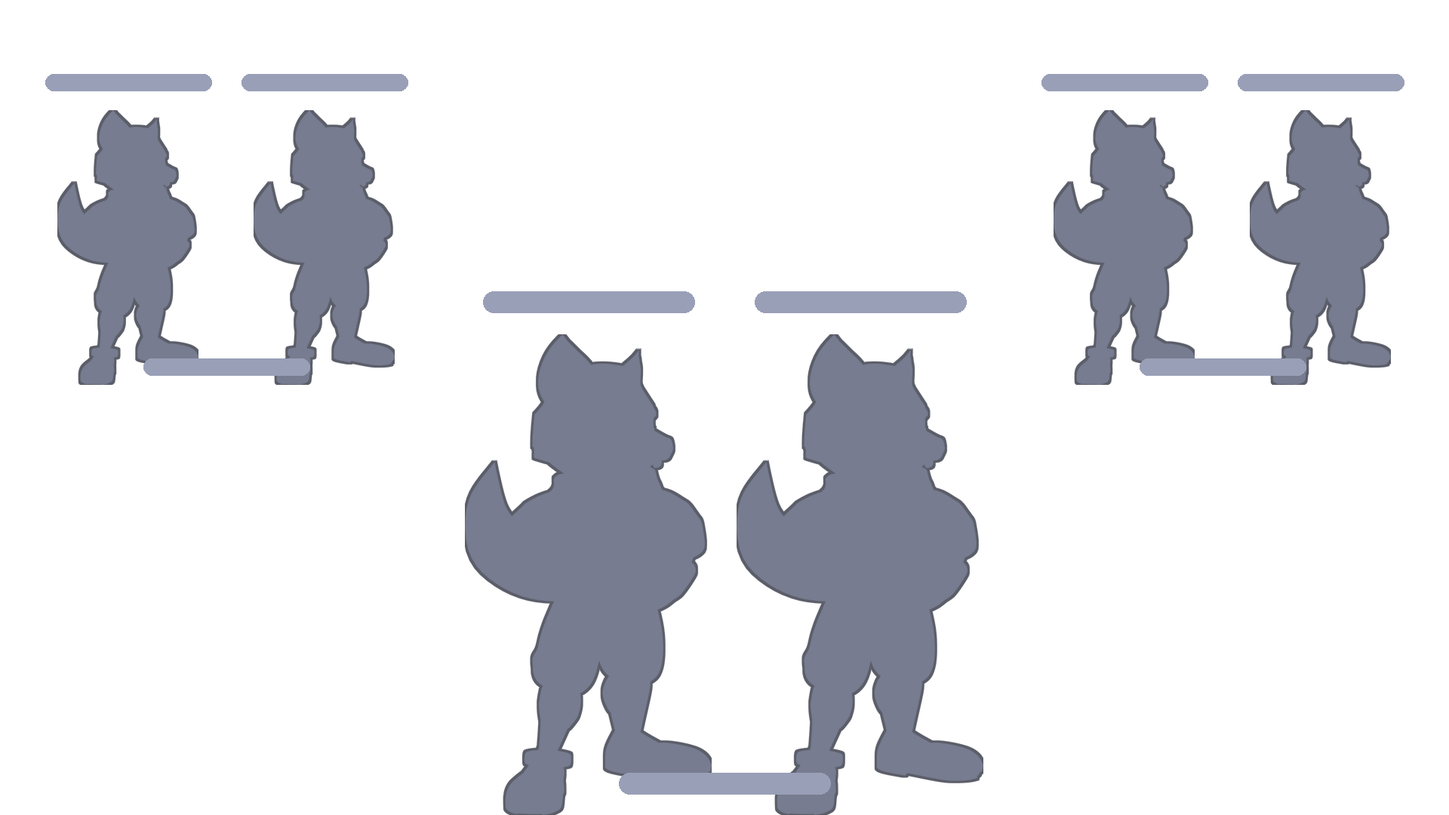
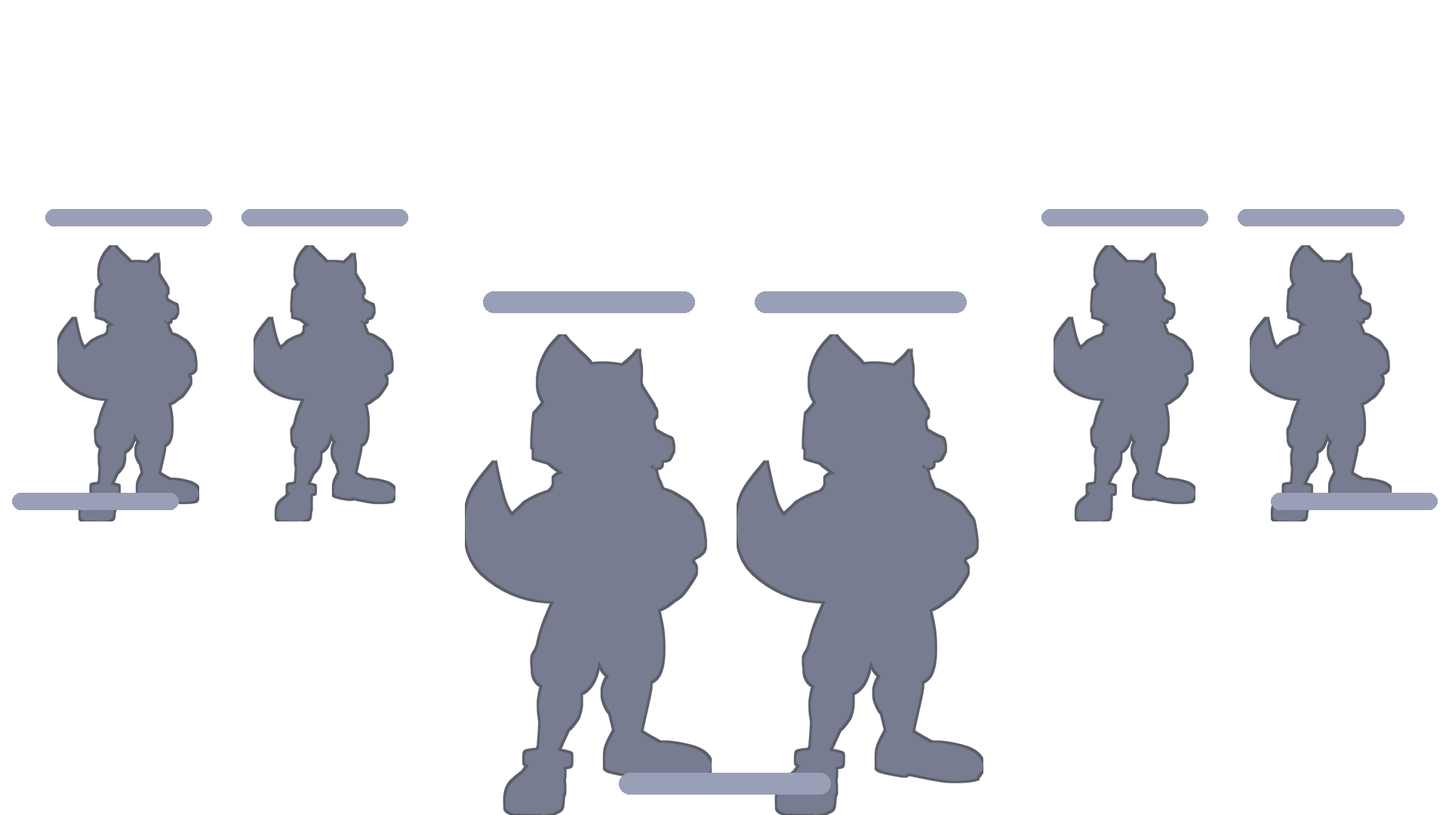
trying to fix the flying v sizing of chars

Changed region(s): [[0.7188, 0.0917, 1.0, 0.6417], [0.0, 0.0917, 0.2812, 0.6417]]

diff --git a/test/flying_v_test.py b/test/flying_v_test.py
@@ -185,11 +185,19 @@ class FlyingVPreferenceTests(unittest.TestCase):
         preferences = ModePreferenceRepository().load(DOUBLES)
         frames = _frames(preferences)
         badges = {slot_from_id(tag.slot_id): tag for tag in preferences.placement_tags}
-        for slot in (2, 3):
+        for slot, side, edge in ((2, "l", 16), (3, "r", 1904)):
             name = next(item for item in preferences.text_slots if item.slot_id == f"name_{slot}")
             feet = frames[f"entrant_{slot}_member_1"].destination.bottom
-            self.assertEqual((name.pillow_anchor, name.anchor.y), ("ms", feet - 2))
+            # Back team names hug their outer edge and wrap upward from the feet.
+            self.assertEqual((name.pillow_anchor, name.anchor.x, name.anchor.y, name.wrap), (f"{side}d", edge, feet + 6, True))
             self.assertEqual(badges[slot].anchor.y - badges[slot].max_size.height // 2, feet + 10)
+            badge_edge = badges[slot].anchor.x + (-1 if side == "l" else 1) * (badges[slot].max_size.width // 2)
+            self.assertLessEqual(abs(badge_edge - edge), 1)
+            seed = next(item for item in preferences.text_slots if item.slot_id == f"seed_{slot}")
+            self.assertEqual(seed.pillow_anchor, f"{side}m")
+            # Names that run toward the center pass behind the winning team.
+            self.assertLess(name.z_index, min(item.z_index for item in preferences.character_slots if item.entrant_slot == 1))
+            self.assertGreater(name.z_index, max(item.z_index for item in preferences.character_slots if item.entrant_slot == slot))
         crest = badges[1]
         self.assertTrue(crest.slot_id.endswith(BETWEEN_NAMES_SUFFIX))
         self.assertEqual(crest.anchor.x, 960)
@@ -283,6 +291,73 @@ class FlyingVPlacementTests(unittest.TestCase):
         roomy = PixelRect(0, 0, 1000, 1000)
         ratio = place_lineup([pichu], .3, roomy).bounds.height / place_lineup([fox], .3, roomy).bounds.height
         self.assertAlmostEqual(ratio, 434.6 / 796, delta=.02)
+
+    def test_every_render_fits_the_doubles_back_tiers_at_full_tier_size(self):
+        preferences = ModePreferenceRepository().load(DOUBLES)
+        frames = _frames(preferences)
+        # Second and third place mirror each other at one shared tier size.
+        back = {(item.entrant_slot, item.member_slot): item for item in preferences.character_slots if item.entrant_slot != 1}
+        for member, mirror in ((1, 2), (2, 1)):
+            second, third = back[(2, member)], back[(3, mirror)]
+            self.assertEqual(second.scale, third.scale)
+            self.assertEqual(second.anchor.x, preferences.canvas_size.width - third.anchor.x)
+            second_frame, third_frame = frames[second.slot_id].destination, frames[third.slot_id].destination
+            self.assertEqual((second_frame.width, second_frame.height), (third_frame.width, third_frame.height))
+            self.assertEqual(second_frame.left, preferences.canvas_size.width - third_frame.right)
+        largest = [Character("Bowser", color="default", pose="c"), Character("Ice Climbers", color="default", pose="a"),
+                   Character("Marth", color="default", pose="e")]
+        for placement in preferences.character_slots:
+            if placement.entrant_slot == 1:
+                continue
+            frame = frames[placement.slot_id].destination
+            for character in largest:
+                with self.subTest(slot=placement.slot_id, character=character.melee_fighter_name):
+                    placed = place_lineup([character], placement.scale, frame, anchor_x=placement.anchor.x)
+                    roomy = place_lineup([character], placement.scale, PixelRect(0, 0, 4000, 4000))
+                    self.assertEqual(placed.image.size, roomy.image.size)
+                    self.assertGreaterEqual(placed.bounds.left, max(0, frame.left))
+                    self.assertLessEqual(placed.bounds.right, min(preferences.canvas_size.width, frame.right))
+
+    def test_figures_center_on_their_anchor_and_slide_only_to_stay_in_frame(self):
+        fox, bowser = Character("Fox", color="default", pose="a"), Character("Bowser", color="default", pose="c")
+        frame = PixelRect(0, 0, 560, 600)
+        placed = place_lineup([fox], .46, frame, anchor_x=170)
+        self.assertLessEqual(abs((placed.bounds.left + placed.bounds.right) / 2 - 170), 1)
+        wide = place_lineup([bowser], .46, frame, anchor_x=170)
+        self.assertEqual(wide.bounds.left, 0)
+
+    def test_back_team_names_wrap_early_and_pass_behind_the_winning_team(self):
+        # Fixed poses keep the measured figures identical to the rendered ones.
+        member = Entrant(tag="Player", characters=[Character("Fox", color="default", pose="a")])
+        teams = [DoublesTeam(seed=slot, placement=slot, entrant_1=member, entrant_2=member, team_name=name)
+                 for slot, name in enumerate(("Leaders", "TheseTeamNamesHaveNoSpacesAndRunOnForever",
+                                              "A Very Long Team Name That Keeps Going"), 1)]
+        request, preferences = _request(DOUBLES, teams, text_settings=TextSettings(include_seeding=False))
+        names = {item.entrant_slot: item for item in preferences.text_slots if item.field == "entrant.team_name"}
+        renderer = FlyingVContentRenderer(font=PodiumFont.UBUNTU)
+        image = renderer.draw(Image.new("RGBA", (1920, 1080), "#00000000"), request, preferences)
+        without_leader = renderer.draw(Image.new("RGBA", (1920, 1080), "#00000000"),
+                                       replace(request, entrants=[replace(teams[0], omit_entrant=True), *teams[1:]]),
+                                       visible_preferences(preferences, [replace(teams[0], omit_entrant=True), *teams[1:]]))
+        # The unbroken name runs on into the first-place figures, which cover it
+        # wherever they are opaque.
+        row = names[2].anchor.y - 20
+        topmost = {}
+        leaders = [figure for figure in place_figures(request, preferences).values() if figure.entrant_slot == 1]
+        for figure in sorted(leaders, key=lambda item: (item.z_index, item.slot_id)):
+            bounds = figure.lineup.bounds
+            if bounds.top <= row < bounds.bottom:
+                for x in range(max(0, bounds.left), min(1920, bounds.right)):
+                    pixel = figure.lineup.image.getpixel((x - bounds.left, row - bounds.top))
+                    if pixel[3] == 255:
+                        topmost[x] = pixel
+        covered = [x for x in topmost if without_leader.getpixel((x, row))[3]]
+        self.assertGreater(len(covered), 20)
+        for x in covered:
+            self.assertEqual(image.getpixel((x, row)), topmost[x])
+        # The spaced name breaks into several right-aligned lines stacked upward.
+        third = without_leader.crop((1300, 300, 1920, names[3].anchor.y + 2))
+        self.assertGreater(names[3].anchor.y - (third.getbbox()[1] + 300), 44 * 3)
 
     def test_second_place_label_stays_put_while_its_figure_grows(self):
         pichu, bowser = Character("Pichu", color="default", pose="a"), Character("Bowser", color="default", pose="c")

diff --git a/generate_flying_v_preferences.py b/generate_flying_v_preferences.py
@@ -3,6 +3,7 @@
 from __future__ import annotations
 
 import json
+from dataclasses import replace
 from pathlib import Path
 
 from background_builder import PixelRect, PixelSize
@@ -92,17 +93,6 @@ def _number_above_name(slot: int, center_x: int, line: int, badge_height: int, n
     ]
 
 
-def _name_above_number(slot: int, center_x: int, line: int, badge_height: int, name_size: int, name_width: int,
-                       name_field: str) -> tuple[PlacementTagPlacement, list[TextPlacement]]:
-    """Rest the name over the feet with the placement art just below the line."""
-    badge_y = line + 10 + badge_height // 2
-    return _badge(slot, PixelPoint(center_x, badge_y), badge_height), [
-        _text(slot, f"name_{slot}", name_field, PixelPoint(center_x, line - 2), name_width, "ms", name_size),
-        _text(slot, f"seed_{slot}", "entrant.seed", PixelPoint(center_x + _badge_width(slot, badge_height) // 2 + 8, badge_y),
-              140, "lm", _seed_size(name_size)),
-    ]
-
-
 # slot: frame, hanging, tier scale, z, badge height, name size, name width, label line.
 # Labels rest on the frame bottom (the feet) unless a fixed label line is given:
 # second place keeps one label position while its hanging figure grows past it,
@@ -120,16 +110,23 @@ SINGLES_TIERS = {
 # First place's name sits on the canvas bottom with its crest right above it.
 SINGLES_LEADER_NAME_BASELINE = 1900
 
-# team slot: two member frames, tier scale, z, badge height, name size, name width.
-# Upper frames start low enough that a sponsored name above the tallest head
-# stays out of the watermark's top row.
+# team slot: (member frame, figure center x) pairs, tier scale, z, badge height,
+# name size, name width. Upper frames start low enough that a sponsored name
+# above the tallest head stays out of the watermark's top row. The 2nd and 3rd
+# frames hold the largest render (Bowser's victory pose) at their tier scale,
+# so no member shrinks; figures keep their spacing by centering on their own x
+# and slide inward only when a wide pose would leave the frame.
 DOUBLES_TIERS = {
-    1: ((PixelRect(520, 320, 1040, 1080), PixelRect(880, 320, 1400, 1080)), .8, 20, 175, 56, 900),
-    2: ((PixelRect(20, 146, 320, 510), PixelRect(280, 146, 580, 510)), .46, 10, 50, 44, 540),
-    3: ((PixelRect(1340, 146, 1640, 510), PixelRect(1600, 146, 1900, 510)), .46, 10, 50, 44, 540),
+    1: (((PixelRect(520, 320, 1040, 1080), 780), (PixelRect(880, 320, 1400, 1080), 1140)), .8, 20, 175, 56, 900),
+    2: (((PixelRect(0, 146, 560, 691), 170), (PixelRect(100, 146, 660, 691), 430)), .46, 10, 50, 44, 900),
+    3: (((PixelRect(1260, 146, 1820, 691), 1490), (PixelRect(1360, 146, 1920, 691), 1750)), .46, 10, 50, 44, 900),
 }
 # The winning team's name sits on the canvas bottom.
 DOUBLES_LEADER_NAME_BASELINE = 1066
+# Back team names hug their outer canvas edge and sit behind the winning team,
+# so a name running toward the center disappears under its figures.
+DOUBLES_SIDE_MARGIN = 16
+DOUBLES_SIDE_NAME_Z = DOUBLES_TIERS[1][2] - 5
 
 
 def flying_v_singles_preferences() -> ModePreferences:
@@ -160,18 +157,39 @@ def flying_v_singles_preferences() -> ModePreferences:
     )
 
 
+def _side_team_label(slot: int, left_side: bool, line: int, badge_height: int, name_size: int,
+                     name_width: int) -> tuple[PlacementTagPlacement, list[TextPlacement]]:
+    """Align a back team's name and placement art to its outer edge.
+
+    The name wraps early, stacking extra lines upward from the feet so the
+    placement art below never moves; the seed sits on the art's inner side.
+    """
+    side = "l" if left_side else "r"
+    direction = 1 if left_side else -1
+    edge = DOUBLES_SIDE_MARGIN if left_side else DOUBLES_CANVAS.width - DOUBLES_SIDE_MARGIN
+    badge_width = _badge_width(slot, badge_height)
+    badge_x = edge + direction * (badge_width // 2)
+    badge_y = line + 10 + badge_height // 2
+    name = _text(slot, f"name_{slot}", "entrant.team_name", PixelPoint(edge, line + 6), name_width, f"{side}d", name_size)
+    return _badge(slot, PixelPoint(badge_x, badge_y), badge_height), [
+        replace(name, wrap=True, z_index=DOUBLES_SIDE_NAME_Z),
+        _text(slot, f"seed_{slot}", "entrant.seed", PixelPoint(badge_x + direction * (badge_width // 2 + 8), badge_y),
+              140, f"{side}m", _seed_size(name_size)),
+    ]
+
+
 def flying_v_doubles_preferences() -> ModePreferences:
     frames, characters, tags, text = _header_regions(DOUBLES_HEADER_BOXES), [], [], []
-    for slot, (member_frames, scale, z_index, badge, size, width) in DOUBLES_TIERS.items():
-        for member, frame in enumerate(member_frames, 1):
+    for slot, (members, scale, z_index, badge, size, width) in DOUBLES_TIERS.items():
+        member_frames = [frame for frame, _x in members]
+        for member, (frame, figure_x) in enumerate(members, 1):
             slot_id = f"entrant_{slot}_member_{member}"
-            center_x = (frame.left + frame.right) // 2
             frames.append(FormattingAssetPlacement(slot_id, STANDING_FRAME, frame, z_index))
-            characters.append(CharacterPlacement(slot_id, slot, PixelPoint(center_x, frame.bottom),
+            characters.append(CharacterPlacement(slot_id, slot, PixelPoint(figure_x, frame.bottom),
                                                  member_slot=member, scale=scale, z_index=z_index))
             # The renderer lowers this baseline to just above the member's visible head.
             text.append(_text(slot, f"member_{slot}_{member}", "member.tag",
-                              PixelPoint(center_x, frame.top - NAME_ABOVE_HEAD_OFFSET), frame.width, "ms", size, member))
+                              PixelPoint(figure_x, frame.top - NAME_ABOVE_HEAD_OFFSET), frame.width, "ms", size, member))
         center_x = (member_frames[0].left + member_frames[1].right) // 2
         if slot == 1:
             # The crest sits centered between the members' names, behind the
@@ -186,8 +204,8 @@ def flying_v_doubles_preferences() -> ModePreferences:
                       _seed_size(size)),
             ))
             continue
-        badge_tag, label_text = _name_above_number(slot, center_x, max(frame.bottom for frame in member_frames),
-                                                   badge, size, width, "entrant.team_name")
+        badge_tag, label_text = _side_team_label(slot, center_x < DOUBLES_CANVAS.width // 2,
+                                                 max(frame.bottom for frame in member_frames), badge, size, width)
         tags.append(badge_tag)
         text.extend(label_text)
     return ModePreferences(

diff --git a/flying_v_content_renderer.py b/flying_v_content_renderer.py
@@ -14,12 +14,14 @@ from DrawPodium import (
     PodiumFont,
     _character_tag_bounds,
     _draw_character_tag,
+    _draw_text,
     _resolve_doubles_tag_collisions,
     _temporary_font_settings,
+    _wrap_text,
 )
 from entrant_visibility import slot_from_id
 from flying_v_lineup import FRAME_ASSETS, HANGING_FRAME, PlacedLineup, place_lineup
-from font_size_adjustments import adjusted_size
+from font_size_adjustments import adjusted_size, result_text_adjustment
 from formatting_assets import LocalPlacementTagAssets, PlacementTagAssetProvider, _composite_clipped
 from geometric_content_renderer import (
     LogoInput,
@@ -30,6 +32,7 @@ from geometric_content_renderer import (
     _explicit_entrant_color,
     _member_for_placement,
     _open_logo,
+    _text_value,
     _watermark_color,
 )
 from legacy_podium_content_renderer import LegacyPodiumContentRenderer
@@ -57,6 +60,9 @@ CREST_NAME_GUTTER = 12
 # stays legible where it overlaps a figure.
 FIRST_PLACE_ART = "01st.png"
 PLACEMENT_OUTLINE_RATIO = .07
+# Wrapped result names break at this width even when their serialized width
+# lets a long unbroken name run on (behind any nearer figures) before shrinking.
+NAME_WRAP_WIDTH = 320
 
 
 @dataclass(frozen=True, slots=True)
@@ -88,7 +94,8 @@ def place_figures(request: CreationRequest, preferences: ModePreferences) -> dic
         figures[placement.slot_id] = PlacedFigure(
             placement.slot_id, placement.entrant_slot, placement.z_index, hanging,
             place_lineup(member.characters, placement.scale, frame.destination, hanging=hanging,
-                         team_color=result.team_color if isinstance(result, DoublesTeam) else None),
+                         team_color=result.team_color if isinstance(result, DoublesTeam) else None,
+                         anchor_x=placement.anchor.x),
         )
     return figures
 
@@ -101,6 +108,8 @@ def text_vertical_extent(item: TextPlacement) -> tuple[int, int]:
         return item.anchor.y - size, item.anchor.y + size // 4
     if vertical == "m":
         return item.anchor.y - size // 2, item.anchor.y + size // 2
+    if vertical == "d":
+        return item.anchor.y - round(size * 1.25), item.anchor.y
     return item.anchor.y, item.anchor.y + round(size * 1.25)
 
 
@@ -216,6 +225,37 @@ def _entrant_text_style(request: CreationRequest, placement: TextPlacement) -> t
     return chosen, settings.entrant_text_metallic[index]
 
 
+def _draw_wrapped_names(canvas: Image.Image, request: CreationRequest, placements: list[TextPlacement], font: PodiumFont) -> None:
+    """Break names early at the wrap width, shrinking only past their wider run-on width.
+
+    Extra lines stack upward from a bottom anchor and follow its left or right
+    alignment, so a long name grows over the figures rather than into the art.
+    """
+    draw = ImageDraw.Draw(canvas)
+    for placement in placements:
+        result = request.entrants[placement.entrant_slot - 1]
+        value = _text_value(placement, result, request.text_settings.include_seeding)
+        if value is None:
+            continue
+        size = adjusted_size(placement.preferred_size or 42,
+                             result_text_adjustment(request.text_settings, result, placement.field, placement.member_slot))
+        color, metallic = _entrant_text_style(request, placement)
+        _draw_text(draw, (placement.anchor.x, placement.anchor.y), _wrap_text(value, NAME_WRAP_WIDTH, size, font),
+                   anchor=placement.pillow_anchor, max_width=placement.max_width, preferred_size=size, font=font,
+                   fill=color, metallic=metallic, align={"l": "left", "r": "right"}.get(placement.pillow_anchor[0], "center"))
+
+
+def _draw_labels(canvas: Image.Image, request: CreationRequest, preferences: ModePreferences,
+                 placements: list[TextPlacement], font: PodiumFont) -> None:
+    """Draw result labels (never member names) with the shared black outline."""
+    if not placements:
+        return
+    layer = Image.new("RGBA", canvas.size, "#00000000")
+    _draw_result_text(layer, request, preferences, font, [item for item in placements if not item.wrap])
+    _draw_wrapped_names(layer, request, [item for item in placements if item.wrap], font)
+    _composite_outlined_text(canvas, layer)
+
+
 def _clear_of(draw: ImageDraw.ImageDraw, tag: CharacterTag, box: tuple[int, int, int, int] | None, font: PodiumFont) -> CharacterTag:
     """Move a member name outward until it no longer covers the team crest."""
     if box is None:
@@ -265,16 +305,19 @@ class FlyingVContentRenderer:
             figures = place_figures(request, preferences)
             labelled = labelled_preferences(preferences, figures)
             # Smaller figures stand farther back; the leader is drawn last.
-            # Placement art layered below a figure is drawn just before it.
+            # Placement art and labels layered below a figure are drawn just before it.
             pending = sorted(labelled.placement_tags, key=lambda item: (item.z_index, item.slot_id))
+            labels = [item for item in labelled.text_slots if item.field != "member.tag"]
             for figure in sorted(figures.values(), key=lambda item: (item.z_index, item.slot_id)):
                 behind = [tag for tag in pending if tag.z_index < figure.z_index]
                 pending = [tag for tag in pending if tag.z_index >= figure.z_index]
                 draw_outlined_placement_tags(result, replace(labelled, placement_tags=tuple(behind)))
+                _draw_labels(result, request, labelled, [item for item in labels if item.z_index < figure.z_index], self.font)
+                labels = [item for item in labels if item.z_index >= figure.z_index]
                 _composite_clipped(result, figure.lineup.image, figure.lineup.bounds.as_tuple())
             text_layer = Image.new("RGBA", result.size, "#00000000")
-            _draw_result_text(text_layer, request, labelled, self.font,
-                              [item for item in labelled.text_slots if item.field != "member.tag"])
+            _draw_result_text(text_layer, request, labelled, self.font, [item for item in labels if not item.wrap])
+            _draw_wrapped_names(text_layer, request, [item for item in labels if item.wrap], self.font)
             _draw_member_names(text_layer, request, [item for item in labelled.text_slots if item.field == "member.tag"],
                                self.font, crest_clearances(labelled, request.text_settings.include_seeding))
             _composite_outlined_text(result, text_layer)

diff --git a/flying_v_lineup.py b/flying_v_lineup.py
@@ -93,13 +93,16 @@ def place_lineup(
     *,
     hanging: bool = False,
     team_color: str | None = None,
+    anchor_x: int | None = None,
 ) -> PlacedLineup:
     """Scale a lineup to its tier, shrinking only a character too large for the frame.
 
     The frame limits each character rather than the staggered lineup, so
     entrants with several characters match single-character entrants in the
-    same tier. Standing lineups rest on the frame's bottom center; hanging
-    lineups start at its top center so they never rise into reserved space.
+    same tier. Standing lineups rest on the frame's bottom; hanging lineups
+    start at its top so they never rise into reserved space. The primary
+    character centers on ``anchor_x`` (the frame center by default), sliding
+    only as far as needed to keep a wide lineup inside the frame.
     """
 
     if scale <= 0:
@@ -111,10 +114,11 @@ def place_lineup(
         widest = max(source.size_at(scale)[0] for source in sources)
         tallest = max(source.size_at(scale)[1] for source in sources)
         scale *= min(1.0, frame.width / widest, frame.height / tallest)
-    lineup, anchor_x = _compose([source.scaled(scale) for source in sources])
+    lineup, lineup_anchor_x = _compose([source.scaled(scale) for source in sources])
     if lineup.width <= frame.width:
         # Center the primary character, then keep uneven lineups inside the frame.
-        left = min(max((frame.left + frame.right) // 2 - anchor_x, frame.left), frame.right - lineup.width)
+        center_x = (frame.left + frame.right) // 2 if anchor_x is None else anchor_x
+        left = min(max(center_x - lineup_anchor_x, frame.left), frame.right - lineup.width)
     else:
         left = (frame.left + frame.right - lineup.width) // 2
     top = frame.top if hanging else frame.bottom - lineup.height

diff --git a/flying_v_preview_layers.py b/flying_v_preview_layers.py
@@ -82,10 +82,13 @@ def render_placeholder_layer(layout_id: str) -> Image.Image:
             continue
         size = placement.preferred_size or 40
         width = min(placement.max_width, size * 5)
-        # Above-head identities sit on their baseline; result names hang from their top.
-        top = placement.anchor.y - size * 3 // 4 if placement.pillow_anchor.endswith("s") else placement.anchor.y + size // 8
-        draw.rounded_rectangle((placement.anchor.x - width // 2, top, placement.anchor.x + width // 2, top + size // 2),
-                               radius=size // 4, fill=GUIDE_FILL)
+        # Baseline and bottom-anchored names rise from their anchor; result names hang from their top.
+        vertical = placement.pillow_anchor[1]
+        top = (placement.anchor.y - size * 3 // 4 if vertical == "s" else placement.anchor.y - size if vertical == "d"
+               else placement.anchor.y + size // 8)
+        left = {"l": placement.anchor.x, "r": placement.anchor.x - width}.get(placement.pillow_anchor[0],
+                                                                              placement.anchor.x - width // 2)
+        draw.rounded_rectangle((left, top, left + width, top + size // 2), radius=size // 4, fill=GUIDE_FILL)
     return layer
 
 

diff --git a/AGENTS.md b/AGENTS.md
@@ -19,7 +19,7 @@
 - Radial uses one generated image-type thumbnail and the same Singles/Doubles controls as the other modes. Selecting Singles fixes its count at eight; selecting Doubles fixes its count at four. Do not add separate per-layout previews or another entrant-count choice for Radial. Reject saved/imported Radial counts or variants outside these two layouts while preserving valid settings and private asset IDs on load.
 - Flying V is a fifth mode based on `docs/archive/template_inspiration/FlyingVRealizedOnIndexCard-Tyro.jpg`, with exactly Singles Top 8 on a 1440x1920 portrait canvas and Doubles Top 3 on a 1920x1080 landscape canvas. Like Radial, choosing Singles or Doubles fixes the count, it uses one generated image-type thumbnail and no entrant-count choice, and saved/imported Flying V counts or variants outside these layouts are rejected. It draws only full-body character renders: apply the shared character/pose relativity scale, then each tier's scale, shrinking only a character individually too large for its serialized frame. Never shrink a lineup because extra characters widen it: multi-character entrants match single-character entrants in the same tier, and lineups wider than their frame stay centered on it. Larger, nearer tiers draw over smaller ones behind them; placement art whose layer-order value is below a figure's is drawn behind that figure.
 - Flying V Singles places 1st as the largest figure at bottom center, standing on the canvas bottom with its name on the bottom edge and a much larger first-place crest directly above the name, over its legs. 2nd is about three-quarters of 1st and hangs from the bottom of the top-center header box, never entering it, directly behind 1st so 1st covers its lower body. 3rd and 4th, about half of 1st, flank 1st above the bottom-corner header boxes and spread out toward the sides; the tied 5ths are smaller, higher, and at the sides; the tied 7ths are smallest and pushed to the top corners so the center stays reserved. Each back-row name must end above the frames of the figures flying below it, so 7th names never cover 5ths and 5th names never cover 3rd or 4th. Canonical placement artwork covers each figure's feet with the player tag directly below it; every Flying V placement artwork except the first-place crest carries a black outline so it stays legible over figures, in exact renders and cached numbering layers alike; any sponsor (split at the final `|`) sits smaller on the placement row left of the artwork, mirroring the seed on its right. 2nd keeps a fixed label position while its larger figure extends past it, rising only when the label would otherwise cover 1st's head.
-- Flying V Doubles places the 1st team at bottom center, standing on the canvas bottom with its team name on the bottom edge, and the smaller, wider-spread 2nd and 3rd teams high on the left and right, well away from 1st. The 2nd and 3rd team names rest over each team's feet directly above their placement artwork. Each member's tag (sponsor on the line above) sits just above that member's visible head. The enlarged first-place crest is drawn behind the winning team's figures, horizontally centered between its members and vertically centered on their names; its seed sits up and to the right of the crest, and member names shift outward rather than cover the crest or seed.
+- Flying V Doubles places the 1st team at bottom center, standing on the canvas bottom with its team name on the bottom edge, and the smaller, wider-spread 2nd and 3rd teams high on the left and right, well away from 1st. 2nd and 3rd mirror each other at one shared tier scale, and their member frames hold the largest character render at that scale so no back-team member ever shrinks; each figure centers on its serialized anchor x and slides only to stay inside its frame. The 2nd and 3rd team names rest over each team's feet directly above their placement artwork, left-aligned to the left canvas edge and right-aligned to the right edge respectively, with the art and seed aligned to the same edge. They break lines early, stacking extra lines upward from the feet, and are layered behind the winning team so a name running toward the center is covered by its figures rather than shrunk. Each member's tag (sponsor on the line above) sits just above that member's visible head. The enlarged first-place crest is drawn behind the winning team's figures, horizontally centered between its members and vertically centered on their names; its seed sits up and to the right of the crest, and member names shift outward rather than cover the crest or seed.
 - Flying V header positions use the shared bijective keys as Bottom Left (`top_left`), Top Middle (`top_middle`), and Bottom Right (`top_right`), defaulting to logo, title, and metadata respectively; corner blocks hug the canvas bottom. Its attribution owns a slim top row in the top-right corner, choosing 25%-alpha white or black from the background beneath it. Flying V has no recolorable formatting shapes: hide the palette controls as for Legacy, reject formatting colors, and default entrant names to Smash Player Colors per placement with Pick 1/2/all overrides. Its fast preview uses translucent median-height placeholder figures with name guides, header layers per font, permutation, and bracket type, and numbering layers that follow those placeholder figures. Review layout changes with `test/generate/generate_flying_v_previews.py`.
 - Select the mode before other creation settings. Keep the mode and its settings, including singles/doubles, included entrant count, and any layout variant, together in one mode-selection value.
 - Podium mode has a required second-level choice between `legacy` podiums and `customizable` podiums. Do not treat this as a cosmetic skin: each style owns separate formatting-asset positions and character/text placements because its podium geometry and heights differ.
